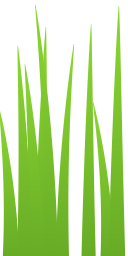
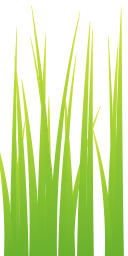
Visual pass 2: softer lawn, fuller trees, visible archway, airier skyline, warmer grade
Claude-Session: https://claude.ai/code/session_0185pMsgYfYcLv5mo3ZmjoTc

diff --git a/src/world.js b/src/world.js
@@ -37,7 +37,7 @@ export function buildWorld(scene, quality) {
     rock: new THREE.MeshStandardMaterial({ map: TEX.cliff, roughness: 0.95, color: 0xf2eee8 }),
     boulder: new THREE.MeshStandardMaterial({ map: TEX.boulder, roughness: 0.95, color: 0xf0ece6 }),
     plaster: new THREE.MeshStandardMaterial({ map: TEX.plaster, roughness: 0.95, color: 0xfff6e8 }),
-    roof: new THREE.MeshStandardMaterial({ map: TEX.roof, roughness: 0.7, color: 0xd8dce6 }),
+    roof: new THREE.MeshStandardMaterial({ map: TEX.roof, roughness: 0.7, color: 0xd6cbbd }),
     iron: new THREE.MeshStandardMaterial({ color: 0x2c2a2a, roughness: 0.5, metalness: 0.6 }),
   };
   const world = { colliders: [], dummies: [], lanterns: [], updaters: [], M };
@@ -254,8 +254,9 @@ function buildCliffs(scene, M) {
   }
   // second tier face
   for (let x = -46; x < 46; x += 1.5 + R() * 1.0) {
-    if (Math.abs(x - L.ARCH.x) < 1.5) continue;
-    const uz = L.upperZ(x);
+    const ax = Math.abs(x - L.ARCH.x);
+    if (ax < 3.3) continue; // keep the archway clear
+    const uz = L.upperZ(x) - (1 - smooth(3.3, 5.5, ax)) * 1.2;
     const r = 1.1 + R() * 0.9;
     const base = L.PLAT - 0.6;
     const h = L.UPPER - base + 0.6 + R() * 1.2;
@@ -265,9 +266,9 @@ function buildCliffs(scene, M) {
     geos.push(g);
   }
   // behind and above the arch
-  for (const dx of [-2.2, -1.2, 0, 1.2, 2.4]) {
-    const g = rockColumn(L.UPPER - L.PLAT + 2.2 + Math.abs(dx) * -0.2, 1.3, dx * 10);
-    g.translate(L.ARCH.x + dx, L.PLAT - 0.3, L.ARCH.z - 1.4 - Math.abs(dx) * 0.2);
+  for (const dx of [-3.4, -2.2, -1.1, 0, 1.1, 2.3, 3.5]) {
+    const g = rockColumn(L.UPPER - L.PLAT + 2.2 - Math.abs(dx) * 0.15, 1.3, dx * 10);
+    g.translate(L.ARCH.x + dx, L.PLAT - 0.3, L.ARCH.z - 2.5 - Math.abs(dx) * 0.15);
     geos.push(g);
   }
   const g = boxUV(mergeGeometries(geos), 0.3);
@@ -1010,7 +1011,7 @@ function buildTrees(scene, col) {
     col(x, z, Math.max(0.35, cr * 0.12));
     // leaf cards scattered over the canopy surface break up the blob silhouette
     const cp = c.attributes.position, cn = c.attributes.normal, cc = c.attributes.color;
-    const nCards = Math.round(cr * cr * 9);
+    const nCards = Math.round(cr * cr * 16);
     for (let k = 0; k < nCards; k++) {
       const i = Math.floor(R() * cp.count);
       if (cn.getY(i) < -0.5) continue;
@@ -1072,7 +1073,7 @@ function buildTrees(scene, col) {
       nn.set(nx, ny, nz).normalize();
       qq.setFromUnitVectors(zAxis, nn);
       spin.setFromAxisAngle(nn, R() * 6.28); qq.premultiply(spin);
-      const s = (0.7 + R() * 0.6) * Math.min(1.6, 0.45 + cr * 0.25);
+      const s = (0.8 + R() * 0.7) * Math.min(1.9, 0.5 + cr * 0.3);
       sc.set(s, s, s); pp.set(x, y, z);
       m4.compose(pp, qq, sc); inst.setMatrixAt(i, m4);
       col2.setRGB(r * 1.05, g * 1.05, b * 1.05); inst.setColorAt(i, col2);
@@ -1162,11 +1163,12 @@ function buildGrass(scene, quality, world) {
     const y = L.groundH(x, z);
     e.set(0, R() * Math.PI, 0); q.setFromEuler(e);
     const sc = (0.75 + R() * 0.7) * (0.75 + 0.5 * a);
-    s.set(sc * 1.1, sc * (0.8 + R() * 0.5), sc * 1.1);
+    const lawn = 0.45 + 0.55 * smooth(2.0, 7.0, L.pathDist(x, z)); // short lawn by the path
+    s.set(sc * 1.1, sc * (0.8 + R() * 0.5) * lawn, sc * 1.1);
     p.set(x, y - 0.03, z);
     m4.compose(p, q, s);
     mesh.setMatrixAt(n, m4);
-    const hue = 0.22 + (R() - 0.5) * 0.04 + n2(x * 0.1, z * 0.1) * 0.02;
+    const hue = 0.2 + (R() - 0.5) * 0.04 + n2(x * 0.1, z * 0.1) * 0.02;
     c.setHSL(hue - 0.015, 0.55 + R() * 0.1, 0.62 + R() * 0.1 + n2(x * 0.3, z * 0.3) * 0.05);
     mesh.setColorAt(n, c);
     n++;
@@ -1181,7 +1183,7 @@ function buildGrass(scene, quality, world) {
 function flowerTex() {
   return canvasTex(256, 64, (c) => {
     // four flower kinds side by side: purple spike, yellow, white, pink
-    const kinds = [['#8a4fd8', '#c79bff'], ['#ffd21f', '#ff9d00'], ['#ffffff', '#ffe27a'], ['#ff5fae', '#ffd0e6']];
+    const kinds = [['#9a5cf0', '#d2a8ff'], ['#ffe14a', '#ffb000'], ['#ffffff', '#ffe27a'], ['#ff6fbf', '#ffd6ec']];
     kinds.forEach(([a, b], k) => {
       const ox = k * 64;
       c.strokeStyle = '#6fae2e'; c.lineWidth = 3;
@@ -1200,8 +1202,8 @@ function flowerTex() {
 }
 
 function buildFlowers(scene, quality) {
-  const count = quality === 'low' ? 1500 : 3500;
-  const q1 = new THREE.PlaneGeometry(0.4, 0.4); q1.translate(0, 0.2, 0);
+  const count = quality === 'low' ? 1200 : 2500;
+  const q1 = new THREE.PlaneGeometry(0.28, 0.28); q1.translate(0, 0.16, 0);
   const q2 = q1.clone(); q2.rotateY(Math.PI / 2);
   const geo = mergeGeometries([q1, q2]);
   const nrm = geo.attributes.normal;
@@ -1267,12 +1269,12 @@ function buildSky(scene, world) {
       c.fillStyle = g; c.beginPath(); c.arc(x, y, r, 0, 7); c.fill();
     }
   });
-  for (let i = 0; i < 9; i++) {
-    const s = new THREE.Sprite(new THREE.SpriteMaterial({ map: cloud, transparent: true, depthWrite: false, fog: false, opacity: 0.9 }));
+  for (let i = 0; i < 6; i++) {
+    const s = new THREE.Sprite(new THREE.SpriteMaterial({ map: cloud, transparent: true, depthWrite: false, fog: false, opacity: 0.8 }));
     const a = -Math.PI / 2 + (rand() - 0.5) * 2.4;
     const d = 230;
-    s.position.set(Math.cos(a) * d, 55 + rand() * 50, Math.sin(a) * d);
-    s.scale.set(90 + rand() * 60, 34 + rand() * 18, 1);
+    s.position.set(Math.cos(a) * d, 85 + rand() * 60, Math.sin(a) * d);
+    s.scale.set(70 + rand() * 40, 26 + rand() * 12, 1);
     scene.add(s);
   }
   // distant mountain ring
@@ -1290,10 +1292,10 @@ function buildSky(scene, world) {
   scene.add(mtn);
   // distant forest of pine silhouettes on the hills
   const cone = new THREE.ConeGeometry(1.6, 7, 6); cone.translate(0, 3.5, 0);
-  const forest = new THREE.InstancedMesh(cone, new THREE.MeshLambertMaterial({ color: 0x3a6a40 }), 400);
+  const forest = new THREE.InstancedMesh(cone, new THREE.MeshLambertMaterial({ color: 0x4f7d5c }), 160);
   const m4 = new THREE.Matrix4();
   let k = 0;
-  for (let i = 0; i < 2000 && k < 400; i++) {
+  for (let i = 0; i < 2000 && k < 160; i++) {
     const a = rand() * Math.PI * 2, d = 75 + rand() * 60;
     const x = 3 + Math.cos(a) * d, z = -2 + Math.sin(a) * d;
     if (z > 20 && rand() < 0.7) continue;

diff --git a/src/main.js b/src/main.js
@@ -80,7 +80,7 @@ composer.addPass(new RenderPass(scene, camera));
 const bloom = new UnrealBloomPass(new THREE.Vector2(256, 256), 0.32, 0.55, 0.92);
 composer.addPass(bloom);
 const grade = new ShaderPass({
-  uniforms: { tDiffuse: { value: null }, sat: { value: 1.0 }, contrast: { value: 1.05 }, vig: { value: 0.28 }, warm: { value: 0.03 } },
+  uniforms: { tDiffuse: { value: null }, sat: { value: 1.12 }, contrast: { value: 1.04 }, vig: { value: 0.22 }, warm: { value: 0.05 } },
   vertexShader: 'varying vec2 vUv; void main(){ vUv = uv; gl_Position = projectionMatrix*modelViewMatrix*vec4(position,1.0); }',
   fragmentShader: `uniform sampler2D tDiffuse; uniform float sat, contrast, vig, warm; varying vec2 vUv;
     void main(){ vec4 c = texture2D(tDiffuse, vUv);
@@ -178,7 +178,7 @@ const G = {
   dialog: null, swing: 1, atkCd: 0, dodgeCd: 0,
 };
 const player = { pos: new THREE.Vector3(-0.35, 0, 7.2), yaw: Math.PI, vel: new THREE.Vector3(), dash: 0, dashDir: new THREE.Vector3() };
-const cam = { yaw: 0, pitch: 0.06, dist: 2.7 };
+const cam = { yaw: 0, pitch: 0.07, dist: 2.25 };
 
 function updateQuestHUD() {
   hud.setQuest(0, 'Talk to Master Ryn', G.talked);
@@ -464,7 +464,7 @@ const camTarget = new THREE.Vector3();
 function updateCamera(dt, snap) {
   // over-the-shoulder: look point is offset to the hero's right, as in the reference
   const right = new THREE.Vector3(-Math.cos(cam.yaw), 0, Math.sin(cam.yaw)).multiplyScalar(-1);
-  const want = player.pos.clone().add(new THREE.Vector3(0, 1.95, 0)).addScaledVector(right, 0.85);
+  const want = player.pos.clone().add(new THREE.Vector3(0, 1.95, 0)).addScaledVector(right, 0.72);
   if (snap) camTarget.copy(want); else camTarget.lerp(want, 1 - Math.exp(-dt * 10));
   const cp = Math.cos(cam.pitch);
   const off = new THREE.Vector3(Math.sin(cam.yaw) * cp, Math.sin(cam.pitch), Math.cos(cam.yaw) * cp).multiplyScalar(cam.dist);

diff --git a/tools/prep_tex.py b/tools/prep_tex.py
@@ -90,11 +90,11 @@ save('flagstone', flag)
 # --- grass blade card (RGBA), several blades on one card ---
 W, H = 128, 256
 card = np.zeros((H, W, 4), np.float32)
-for b in range(9):
-    x0 = rng.uniform(10, W - 10)
-    lean = rng.uniform(-28, 28)
-    h = rng.uniform(0.55, 1.0) * H
-    wid = rng.uniform(5, 9)
+for b in range(20):
+    x0 = rng.uniform(8, W - 8)
+    lean = rng.uniform(-34, 34)
+    h = rng.uniform(0.45, 1.0) * H
+    wid = rng.uniform(3, 5.5)
     for y in range(int(h)):
         t = y / h
         x = x0 + lean * t * t
@@ -103,8 +103,8 @@ for b in range(9):
         xs = np.arange(int(x - ww - 1), int(x + ww + 2))
         xs = xs[(xs >= 0) & (xs < W)]
         a = np.clip(ww - np.abs(xs - x), 0, 1)
-        g = 0.55 + 0.45 * t
-        col = np.array([60 + 80 * g, 120 + 95 * g, 25 + 25 * g])
+        g = 0.5 + 0.5 * t
+        col = np.array([70 + 150 * g * g, 125 + 105 * g, 30 + 30 * g])
         card[yy_, xs, :3] = np.where(a[:, None] > card[yy_, xs, 3:4] / 255, col, card[yy_, xs, :3])
         card[yy_, xs, 3] = np.maximum(card[yy_, xs, 3], a * 255)
 Image.fromarray(card.astype(np.uint8), 'RGBA').save(f'{OUT}/blade.png')
